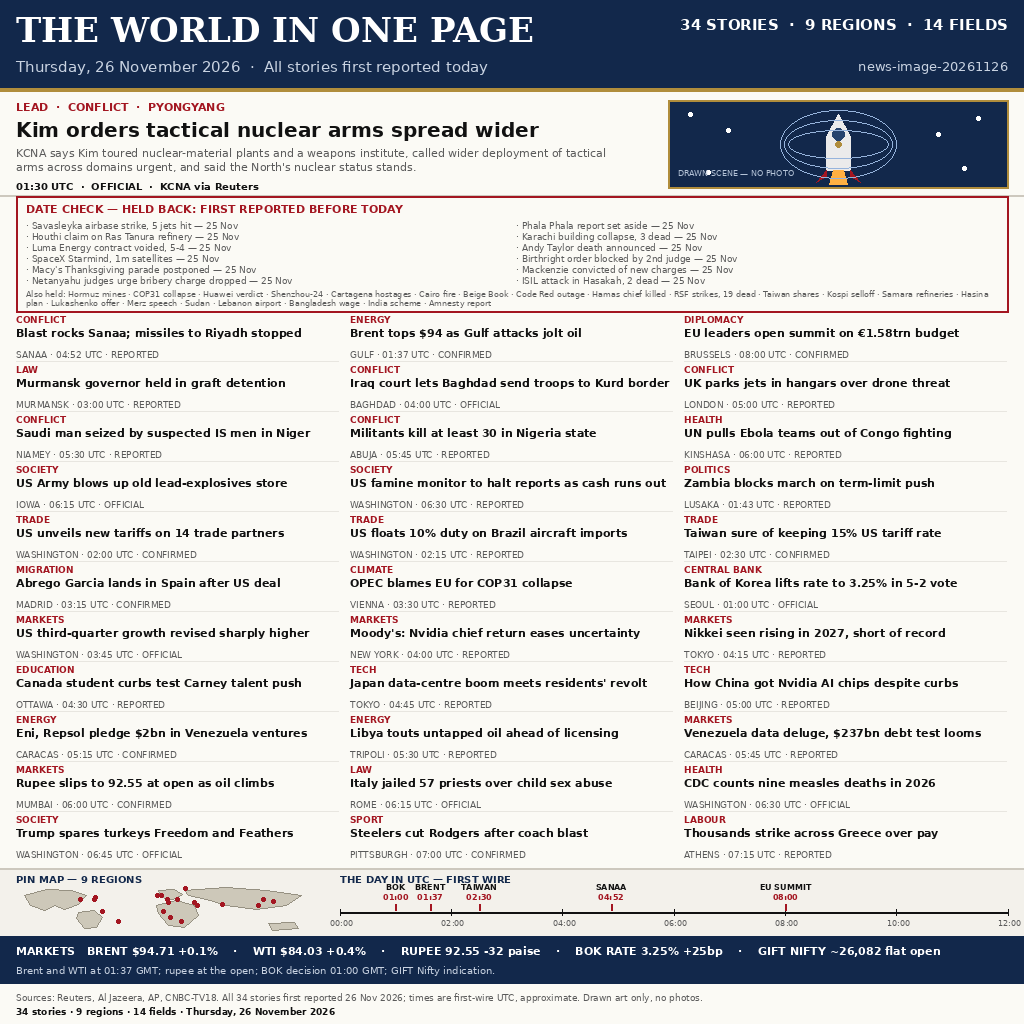
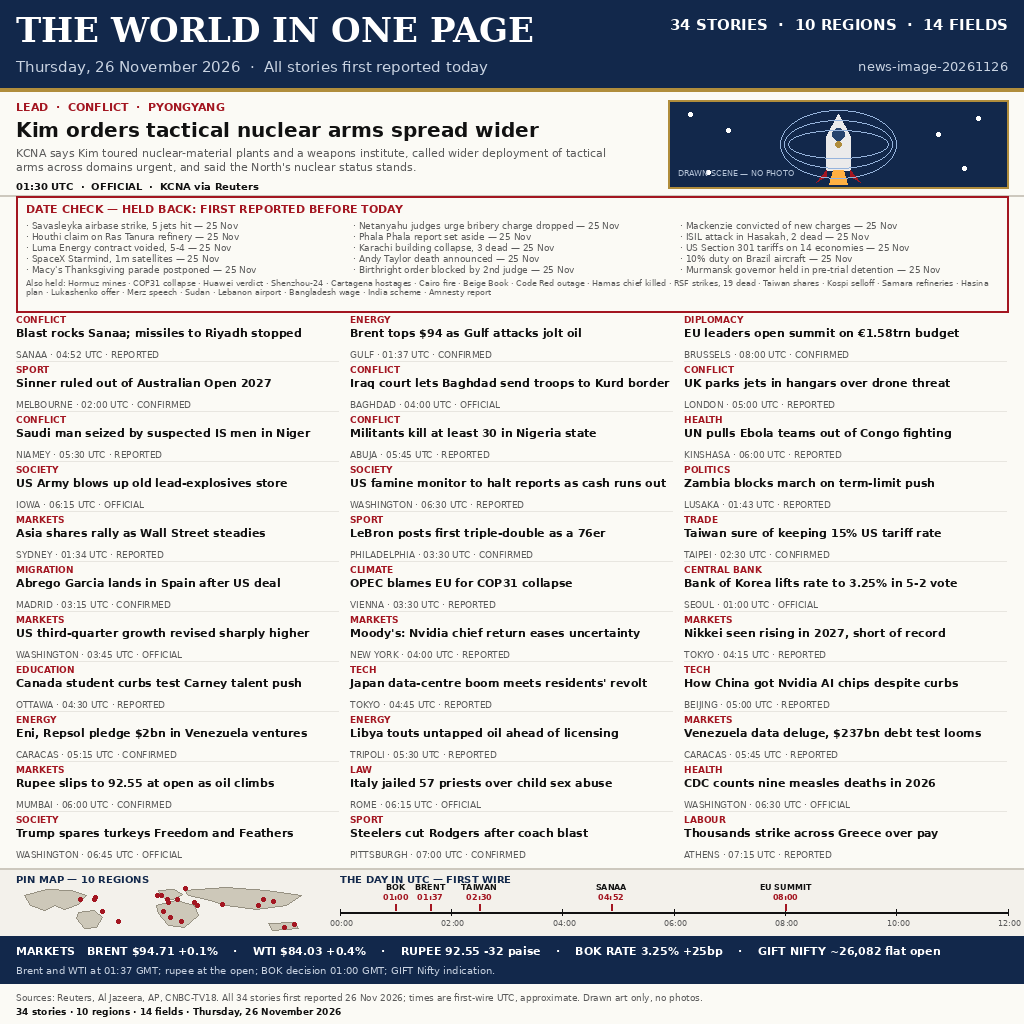
Fix 26 Nov date check: drop 25 Nov tariffs/Brazil-duty/Murmansk stories; add Asia shares, Sinner AO withdrawal, LeBron triple-double (all first reported 26 Nov); regions 9 -> 10 (Oceania)

diff --git a/README.md b/README.md
@@ -2,7 +2,7 @@
 [![rank](https://make.fun/badge/news-image-20261126/diablosan19/news-image-20261126b/rank.svg)](https://make.fun/bounty/news-image-20261126/leaderboard?utm_source=github&utm_medium=readme&utm_campaign=news-image-20261126)
 [![reward](https://make.fun/badge/news-image-20261126/diablosan19/news-image-20261126b/reward.svg)](https://make.fun/bounty/news-image-20261126?utm_source=github&utm_medium=readme&utm_campaign=news-image-20261126)
 
-# Thursday 26 November 2026: 34 stories, 9 regions
+# Thursday 26 November 2026: 34 stories, 10 regions
 
 A one-page newspaper front page that sums up the world news of
 Thursday, 26 November 2026, in a single 1024x1024 image. Every story
@@ -23,13 +23,14 @@ the SpaceX Starmind approval, the postponed Macy's parade, the
 Netanyahu trial recommendation, the Phala Phala ruling, the Karachi
 building collapse, the Andy Taylor death announcement, the birthright
 citizenship ruling, the Mackenzie convictions, the Hasakah attack,
-and more.
+the US Section 301 tariffs on 14 economies, the 10% duty on Brazil
+aircraft, the Murmansk governor's pre-trial detention, and more.
 
 The main grid carries 33 further stories in three columns. Every
 story shows a field tag, a bold headline, a region dateline, a UTC
 time, and a sourcing label — OFFICIAL, CONFIRMED, or REPORTED — so
 no claim is presented as confirmed fact when it is only reported.
-A pin map marks the nine regions, a timeline strip runs the day's
+A pin map marks the ten regions, a timeline strip runs the day's
 first wires in UTC, and a markets strip at the foot carries Brent,
 WTI, the rupee, the Bank of Korea rate, and the GIFT Nifty
 indication. All artwork is drawn shapes; there is no photography.
@@ -40,7 +41,7 @@ indication. All artwork is drawn shapes; there is no photography.
 2. Blast rocks Sanaa; missiles to Riyadh stopped — Sanaa, REPORTED
 3. Brent tops $94 as Gulf attacks jolt oil — Gulf, CONFIRMED
 4. EU leaders open summit on €1.58trn budget — Brussels, CONFIRMED
-5. Murmansk governor held in graft detention — Murmansk, REPORTED
+5. Sinner ruled out of Australian Open 2027 — Melbourne, CONFIRMED
 6. Iraq court lets Baghdad send troops to Kurd border — Baghdad, OFFICIAL
 7. UK parks jets in hangars over drone threat — London, REPORTED
 8. Saudi man seized by suspected IS men in Niger — Niamey, REPORTED
@@ -49,8 +50,8 @@ indication. All artwork is drawn shapes; there is no photography.
 11. US Army blows up old lead-explosives store — Iowa, OFFICIAL
 12. US famine monitor to halt reports as cash runs out — Washington, REPORTED
 13. Zambia blocks march on term-limit push — Lusaka, REPORTED
-14. US unveils new tariffs on 14 trade partners — Washington, CONFIRMED
-15. US floats 10% duty on Brazil aircraft imports — Washington, REPORTED
+14. Asia shares rally as Wall Street steadies — Sydney, REPORTED
+15. LeBron posts first triple-double as a 76er — Philadelphia, CONFIRMED
 16. Taiwan sure of keeping 15% US tariff rate — Taipei, CONFIRMED
 17. Abrego Garcia lands in Spain after US deal — Madrid, CONFIRMED
 18. OPEC blames EU for COP31 collapse — Vienna, REPORTED
@@ -72,7 +73,7 @@ indication. All artwork is drawn shapes; there is no photography.
 34. Thousands strike across Greece over pay — Athens, REPORTED
 
 Regions: Korean Peninsula, Japan, Taiwan, South Asia, Middle East &
-Gulf, Europe, Africa, North America, South America. Fields:
+Gulf, Europe, Africa, North America, South America, Oceania. Fields:
 Conflict, Diplomacy, Trade, Central Banking, Markets, Energy,
 Technology, Law, Health, Sport, Migration, Climate, Education,
 Labour.
